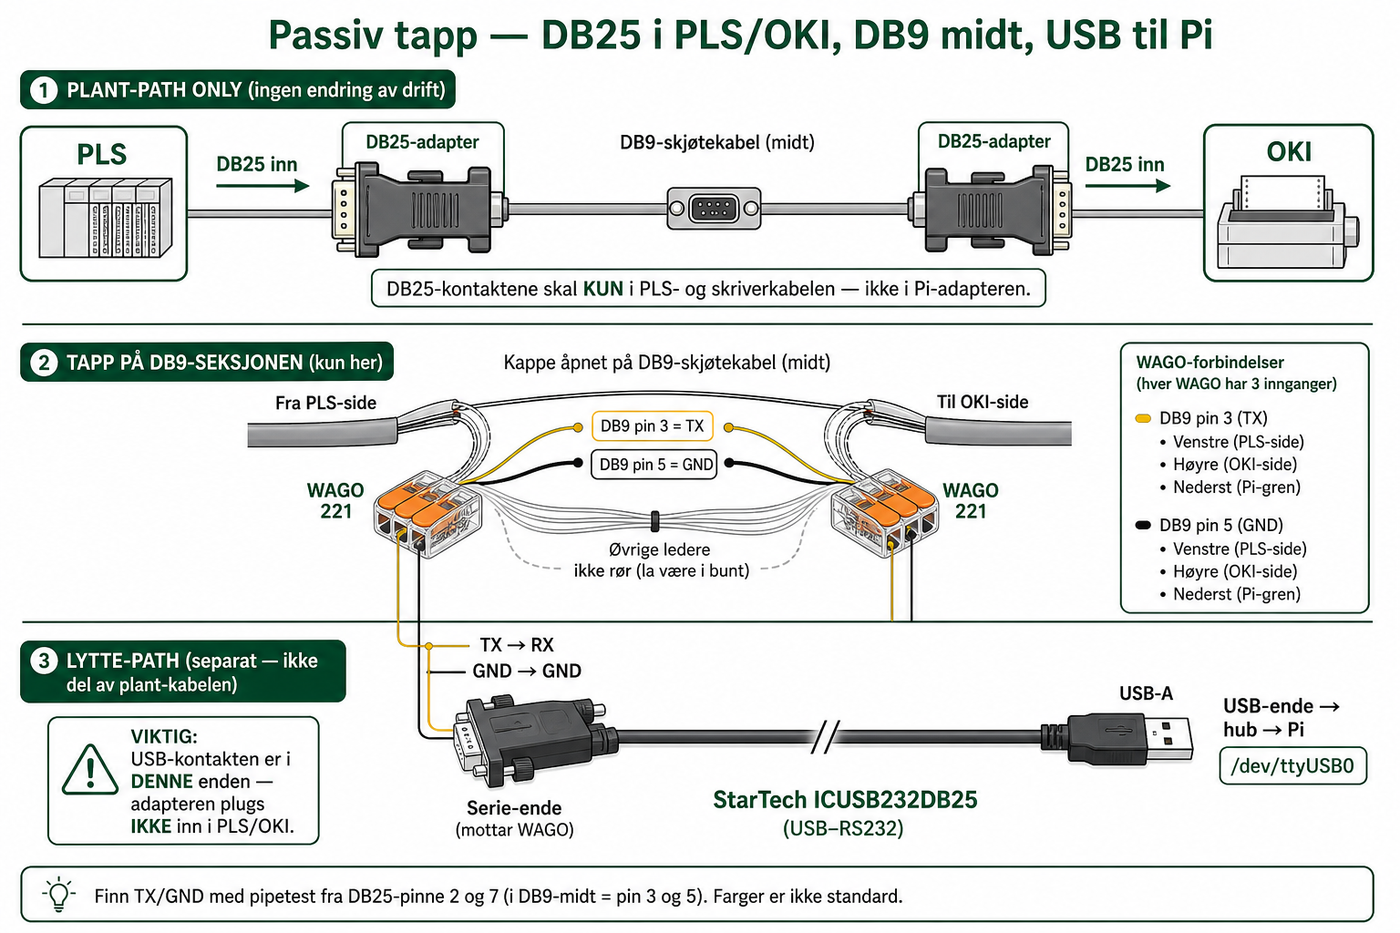
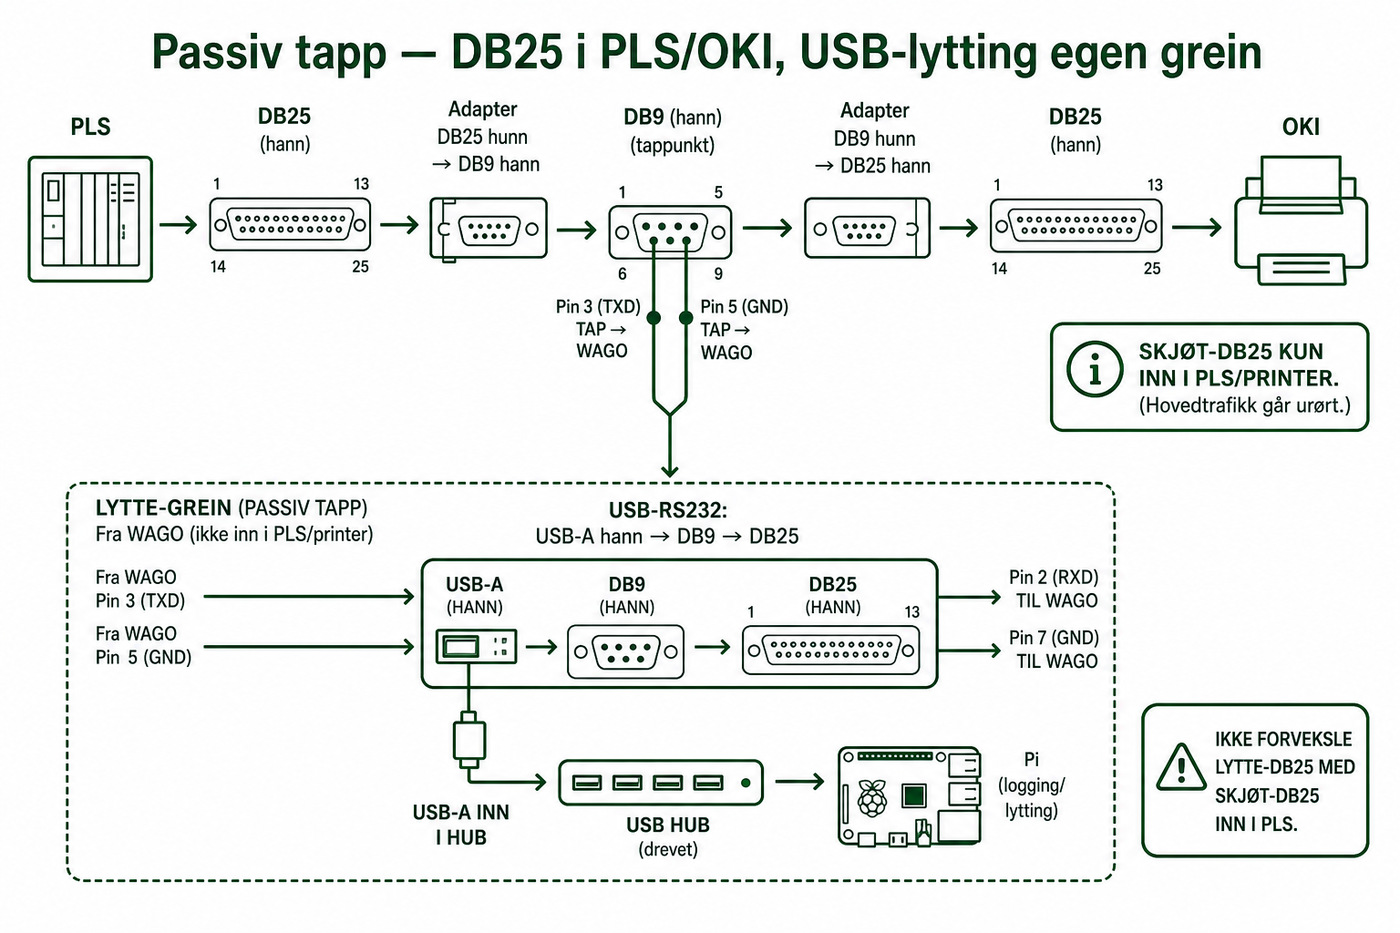
Riktige USB-kontakter: OTG hunn, adapter hann→DB9→DB25
OTG fra Pi er micro-USB → USB-A hunn. Lytteadapter er USB-A hann
via DB9 til DB25 (WAGO på serie-enden). Oppdaterte diagrammer.

Changed region(s): [[0.0, 0.0, 0.9829, 0.9946]]

diff --git a/docs/en/wiring.md b/docs/en/wiring.md
@@ -8,7 +8,8 @@
 |------|-----------|
 | PLC and OKI | **DB25** |
 | Extension (middle) | Often a **DB9** cable with **DB25 adapters** on each end |
-| Pi listen | **StarTech ICUSB232DB25** (USB → DB25) |
+| Pi listen | **USB–RS232**: USB-A **male** → DB9 → DB25 (e.g. ICUSB232DB25) |
+| Pi OTG | micro-USB (into Pi) → USB-A **female** (hub/devices plug in) |
 
 The signals to tap are still **DB25 pin 2 (TX)** and **pin 7 (GND)** at the PLC/printer.  
 In the DB9 middle section that maps to:
@@ -43,17 +44,23 @@ PLC side ──┐
 Pi branch ─┘
 ```
 
-## On to the ICUSB232DB25 (separate branch — not into PLC/OKI)
+## On to USB–RS232 (separate branch — not into PLC/OKI)
 
 The extension’s **DB25** ends go only into the PLC and printer.  
-The **ICUSB232DB25** is a separate listen cable: serial end takes the WAGO pigtails; the **USB end** goes into the hub toward the Pi.
+The listen adapter is a separate branch:
 
-| From WAGO | To StarTech ICUSB232DB25 |
-|-----------|--------------------------|
+```text
+WAGO (TX+GND)
+    → DB25 (listen) ← DB9 ← USB-A MALE  →  hub  →  OTG (USB-A FEMALE)  →  Pi
+```
+
+| From WAGO | To listen adapter (serial end) |
+|-----------|-------------------------------|
 | TX (DB25 pin 2 / DB9 pin 3) | **RX** |
 | GND (DB25 pin 7 / DB9 pin 5) | **GND** |
 
-TX → RX — never TX to TX. USB → hub → `/dev/ttyUSB0`.
+TX → RX — never TX to TX. USB-A **male** into the hub → `/dev/ttyUSB0`.  
+Pi OTG is micro-USB → USB-A **female** (not a male–male cable).
 
 Secure the splice in the cable tray. Never leave a WAGO hanging loose.
 

diff --git a/docs/no/wiring.md b/docs/no/wiring.md
@@ -8,7 +8,8 @@
 |-----|---------|
 | PLS og OKI | **DB25** |
 | Skjøtekabel (midt) | Ofte **DB9**-kabel med **DB25-adapter** i hver ende |
-| Pi-lytting | **StarTech ICUSB232DB25** (USB → DB25) |
+| Pi-lytting | **USB–RS232**: USB-A **hann** → DB9 → DB25 (f.eks. ICUSB232DB25) |
+| Pi OTG | micro-USB (inn i Pi) → USB-A **hunn** (hub/enheter plugges inn) |
 
 Signalet som skal tappes er fortsatt **DB25 pin 2 (TX)** og **pin 7 (GND)** på PLS/OKI-siden.  
 I DB9-midten tilsvarer det:
@@ -43,17 +44,23 @@ PLS-side ──┐
 Pi-gren ───┘
 ```
 
-## Videre til ICUSB232DB25 (egen grein — ikke inn i PLS/OKI)
+## Videre til USB–RS232 (egen grein — ikke inn i PLS/OKI)
 
 Skjøtens **DB25** går bare til PLS og skriver.  
-**ICUSB232DB25** er en egen lyttekabel: serie-ende tar imot WAGO-grenene, **USB-enden** går i huben til Pi.
+Lytteadapteren er egen grein:
 
-| Fra WAGO | Til StarTech ICUSB232DB25 |
-|----------|---------------------------|
+```text
+WAGO (TX+GND)
+    → DB25 (lytte) ← DB9 ← USB-A HANN  →  hub  →  OTG (USB-A HUNN)  →  Pi
+```
+
+| Fra WAGO | Til lytteadapter (serie-ende) |
+|----------|-------------------------------|
 | TX (DB25 pin 2 / DB9 pin 3) | **RX** |
 | GND (DB25 pin 7 / DB9 pin 5) | **GND** |
 
-TX → RX — aldri TX til TX. USB → hub → `/dev/ttyUSB0`.
+TX → RX — aldri TX til TX. USB-A **hann** i huben → `/dev/ttyUSB0`.  
+OTG fra Pi er micro-USB → USB-A **hunn** (ikke hann–hann-kabel).
 
 Fest skjøten i kabelrenna. La aldri WAGO henge løst.
 

diff --git a/README.en.md b/README.en.md
@@ -150,7 +150,7 @@ Full parts list in the [installation guide](docs/en/INSTALLATION.md).
 
 <p style="font-size: 15px; margin-bottom: 0.4em"><b>1 · Passive tap</b> — see <a href="#choose-your-extension-db25-or-db9">Choose your extension</a> (image above).</p>
 
-<p style="font-size: 15px; margin-bottom: 0.4em"><b>2 · USB chain</b> — WAGO tap → <b>ICUSB232DB25</b> → hub (with keyboard + stick). PWR IN = power (≥2.5 A); data port → OTG → hub.</p>
+<p style="font-size: 15px; margin-bottom: 0.4em"><b>2 · USB chain</b> — Pi OTG: micro-USB → USB-A <b>female</b>. Listen adapter: USB-A <b>male</b> → DB9 → DB25 (WAGO on serial end). Hub with keyboard + stick. PWR IN ≥2.5 A.</p>
 <img src="docs/en/img/usb-chain-complete.png" width="100%" alt="USB chain with WAGO and ICUSB232DB25"/>
 
 <p style="font-size: 15px; margin-bottom: 0.4em"><b>3 · OLED (optional)</b> — 0.96" SSD1306 I2C, four wires. Rotates day/year, last package, sort mix.</p>

diff --git a/README.md b/README.md
@@ -194,7 +194,7 @@ Full delerliste i <a href="docs/no/INSTALLATION.md">installasjonsguiden</a>.
 
 <p style="font-size: 15px; margin-bottom: 0.4em"><b>1 · Passiv tapp</b> — se <a href="#velg-skjøtekabel-db25-eller-db9">Velg skjøtekabel</a> (bilde over).</p>
 
-<p style="font-size: 15px; margin-bottom: 0.4em"><b>2 · USB-kjede</b> — WAGO-tapp → <b>ICUSB232DB25</b> → hub (med tastatur + penn). PWR IN = strøm (≥2,5 A); data-port → OTG → hub.</p>
+<p style="font-size: 15px; margin-bottom: 0.4em"><b>2 · USB-kjede</b> — Pi OTG: micro-USB → USB-A <b>hunn</b>. Lytteadapter: USB-A <b>hann</b> → DB9 → DB25 (WAGO på serie-enden). Hub med tastatur + penn. PWR IN ≥2,5 A.</p>
 <img src="docs/no/img/usb-kjede-komplett.png" width="100%" alt="USB-kjede med WAGO og ICUSB232DB25"/>
 
 <p style="font-size: 15px; margin-bottom: 0.4em"><b>3 · OLED (valgfritt)</b> — 0,96" SSD1306 I2C, fire ledninger. Roterer dag/år, siste pakke, sort.</p>
